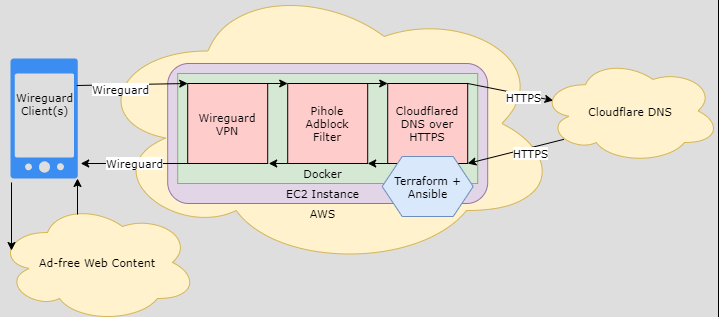
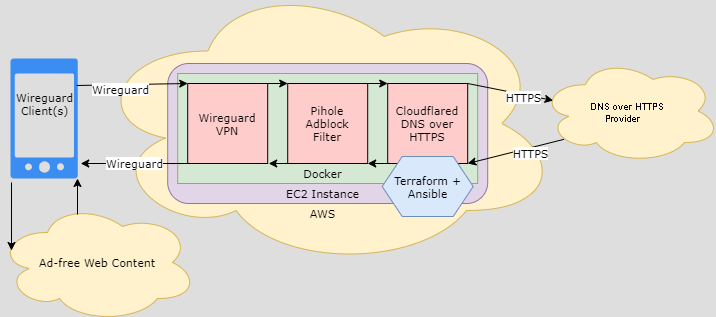
variablized docker network, wireguard, and doh endpoint

diff --git a/README.md b/README.md
@@ -11,32 +11,23 @@ End-to-end DNS encryption with DNS-based ad-blocking. Combines wireguard (DNS VP
 # Variables
 Edit the vars file (ph.tfvars) to customize the deployment, especially:
 
-**bucket_name**
+```
+# pihole_password
+# password to access the pihole webui
 
-- a unique bucket name, terraform will create the bucket to store various resources.
+# bucket_name
+# a unique S3 AWS bucket name, terraform will create the bucket to store various resources.
 
-**mgmt_cidr**
+# mgmt_cidr
+# an IP range granted webUI, EC2 SSH access. Also permitted PiHole DNS if dns_novpn = 1 (default).
+# deploying from home? This should be your public IP address with a /32 suffix. 
 
-- an IP range granted webUI, EC2 SSH access. Also permitted PiHole DNS if dns_novpn = 1
-- deploying from home? This should be your public IP address with a /32 suffix. 
+# kms_manager
+# an AWS user account (not root) granted access to encrypted S3 objects. Required to read the VPN configuration files in S3.
 
-**vpn_cidr**
-
-- an IP range granted wireguard VPN access. Client enrollment still required.
-- default is 0.0.0.0/0 (world)
-
-**kms_manager**
-
-- an AWS user account (not root) granted access to the encrypted S3 objects.
-- required to read the VPN configuration files in S3.
-
-**instance_key**
-
-- a public SSH key for SSH access to the instance via user `ubuntu`.
-
-**ssm_web_password**
-
-- Sets the Pihole WebUI password.
+# instance_key
+# a public SSH key for SSH access to the instance via user `ubuntu`.
+```
 
 # Deploy
 ```
